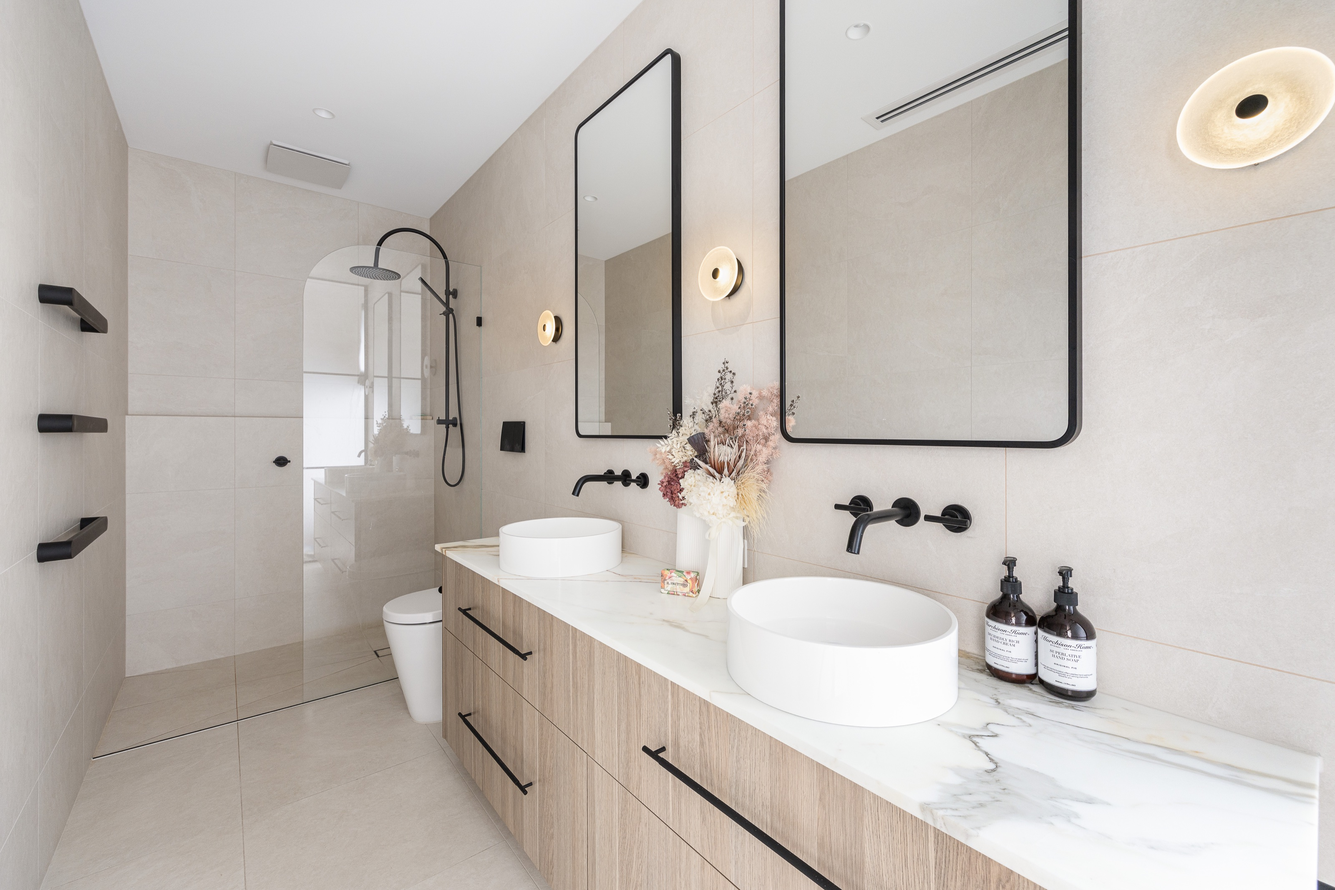
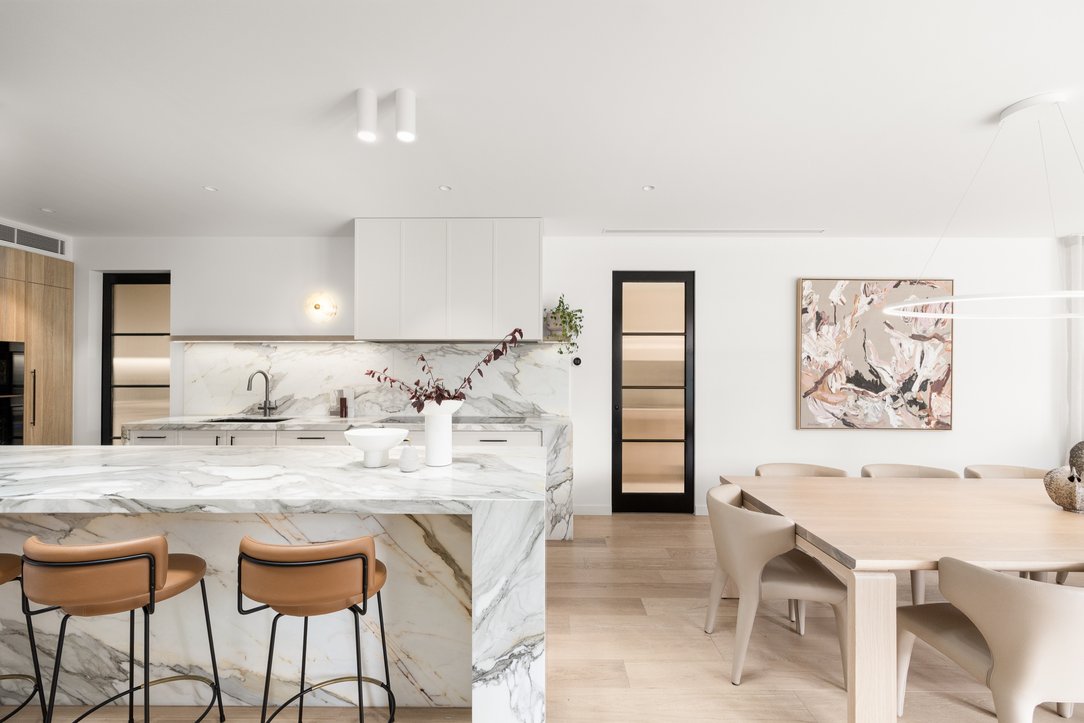
Update project covers and remove St Kilda West

diff --git a/projects.html b/projects.html
@@ -211,17 +211,6 @@
           </div>
         </a>
       </div>
-      <div class="previewGrid-item" data-category="renovation">
-        <a href="/projects/st-kilda-west.html" class="previewGrid-link">
-          <div class="previewGrid-image">
-            <img src="images/projects/stkilda_west/cover.jpg" alt="St. Kilda West" />
-          </div>
-          <div class="previewGrid-content">
-            <span class="previewGrid-category">Renovation</span>
-            <h3 class="previewGrid-title">St. Kilda West</h3>
-          </div>
-        </a>
-      </div>
     </div>
   </section>
 
